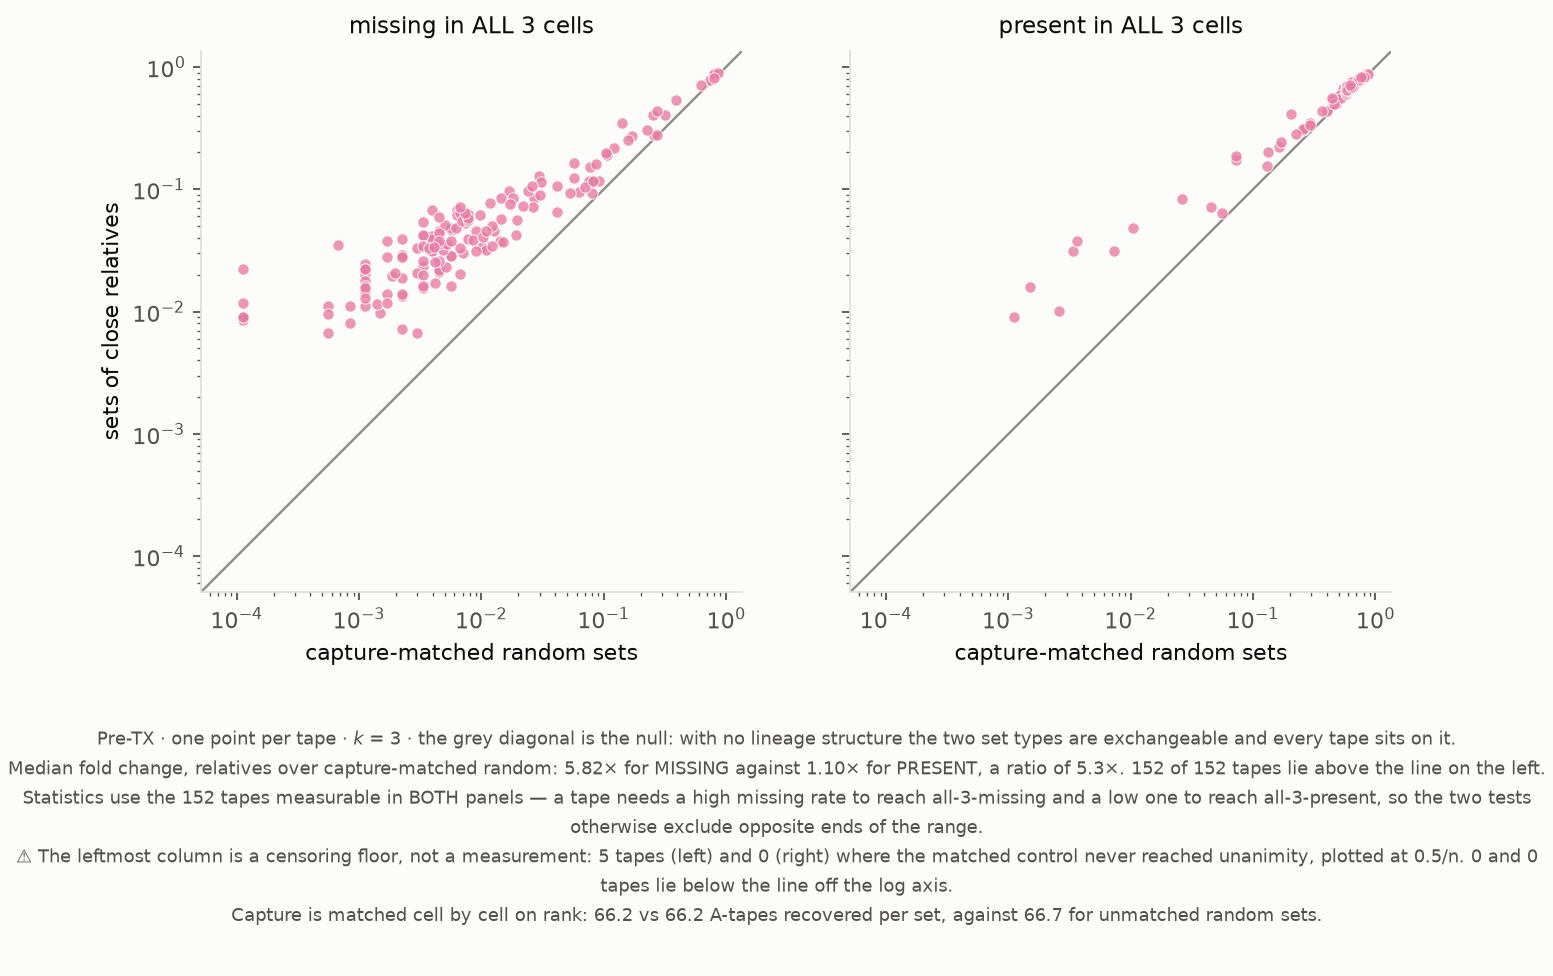
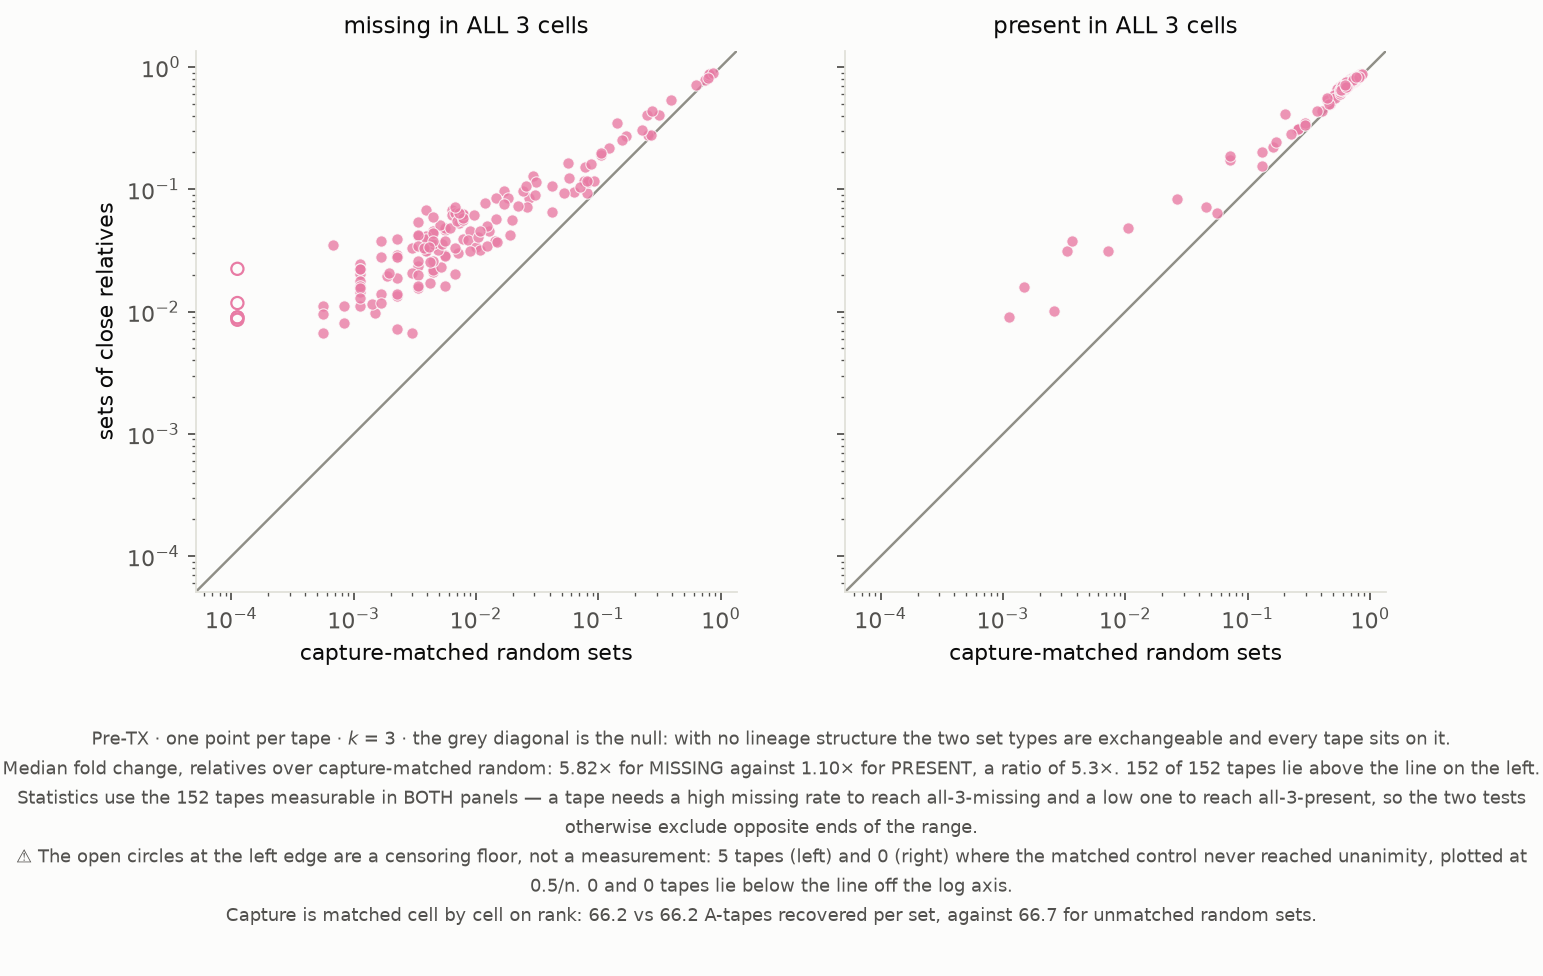
Restore the open markers for censored tapes
Reversed on Justin's second thought, for the reason flagged when making the
change: that left-edge column sits at a CENSORING FLOOR, not at a measured x, and
with filled markers a reader takes it for a measurement.  The open style is the
only visual signal that those tapes are below the resolution of the control --
which is also where the effect is strongest, 49 tapes on Pre-TX at k=5.

The other three presentation changes stand: no dashed median lines, caption below
the axes, and two series only in the companion.

Also removed a duplicate caption fragment left behind by a failed patch, and
rebuilt all five arms at k=3 and k=5.

diff --git a/analyses/2026-08_park-compatibility/src/84_fig_unanimity.py b/analyses/2026-08_park-compatibility/src/84_fig_unanimity.py
@@ -79,9 +79,14 @@ for ax, key, ttl in ((axs[0], "miss", f"missing in ALL {KUSE} cells"),
     ax.scatter(pm[BOTH], pr[BOTH], s=26, color=COL[ARM], alpha=0.8, zorder=4,
                edgecolor=SURFACE, linewidth=0.5)
     cens = ok0 & (pr > 0) & (pm == 0)                  # control never unanimous
+    # ⭐ OPEN markers, restored 2026-09-14 on Justin's second thought.  This column
+    # sits at a CENSORING FLOOR, not at a measured x, and with filled markers a
+    # reader takes it for a measurement.  The open style is the only visual signal
+    # that these tapes are 'below the resolution of the control', which is also
+    # where the effect is strongest -- 49 tapes on Pre-TX at k = 5.
     if cens.sum():
-        ax.scatter(np.full(int(cens.sum()), FLOOR), pr[cens], s=26, color=COL[ARM],
-                   alpha=0.8, zorder=4, edgecolor=SURFACE, linewidth=0.5)
+        ax.scatter(np.full(int(cens.sum()), FLOOR), pr[cens], s=30, facecolor="none",
+                   edgecolor=COL[ARM], linewidth=1.0, zorder=4)
     MED[key] = float(np.median(pr[BOTH] / pm[BOTH]))
     NOTE[key] = (int((pr[BOTH] > pm[BOTH]).sum()), int(BOTH.sum()),
                  int(cens.sum()), int((ok0 & (pr == 0) & (pm > 0)).sum()))
@@ -102,8 +107,9 @@ cap = (
     f"Statistics use the {bm} tapes measurable in BOTH panels — a tape needs a high missing rate to "
     f"reach all-{KUSE}-missing and a low one to reach all-{KUSE}-present, so the two tests otherwise "
     f"exclude opposite ends of the range.\n"
-    f"⚠ The leftmost column is a censoring floor, not a measurement: {ac} tapes (left) and {pc} "
-    f"(right) where the matched control never reached unanimity, plotted at 0.5/n. "
+    f"\u26a0 The open circles at the left edge are a censoring floor, not a measurement: "
+    f"{ac} tapes (left) and {pc} (right) where the matched control never reached "
+    f"unanimity, plotted at 0.5/n. "
     f"{ab} and {pb} tapes lie below the line off the log axis.\n"
     f"Capture is matched cell by cell on rank: {cm['rel']:.1f} vs {cm['mat']:.1f} A-tapes recovered "
     f"per set, against {cm['rnd']:.1f} for unmatched random sets."

diff --git a/analyses/2026-08_park-compatibility/README.md b/analyses/2026-08_park-compatibility/README.md
@@ -4416,6 +4416,8 @@ the fold is pinned near 1.
    not how far apart they would have been. ⚑ **The unmatched numbers stay in the caption**, because
    they are the evidence the matching was necessary rather than decorative.
 
-⚠ One thing lost with (1), so it is stated in the caption instead: **the leftmost column is a
-censoring floor, not a measurement** — tapes where the matched control never reached unanimity,
-plotted at $0.5/n_{\rm sets}$. Pre-TX has **49** at $k$=5, and they are where the effect is strongest.
+⚠⚠ **(1) was REVERSED on Justin's second thought and the open markers are back.** The reason is the
+one I flagged when making the change: that column sits at a **censoring floor, not at a measured
+$x$**, and with filled markers a reader takes it for a measurement. The open style is the only visual
+signal that those tapes are *below the resolution of the control* — which is also where the effect is
+strongest, **49 tapes on Pre-TX at $k$=5**. Changes (2)–(4) stand.
